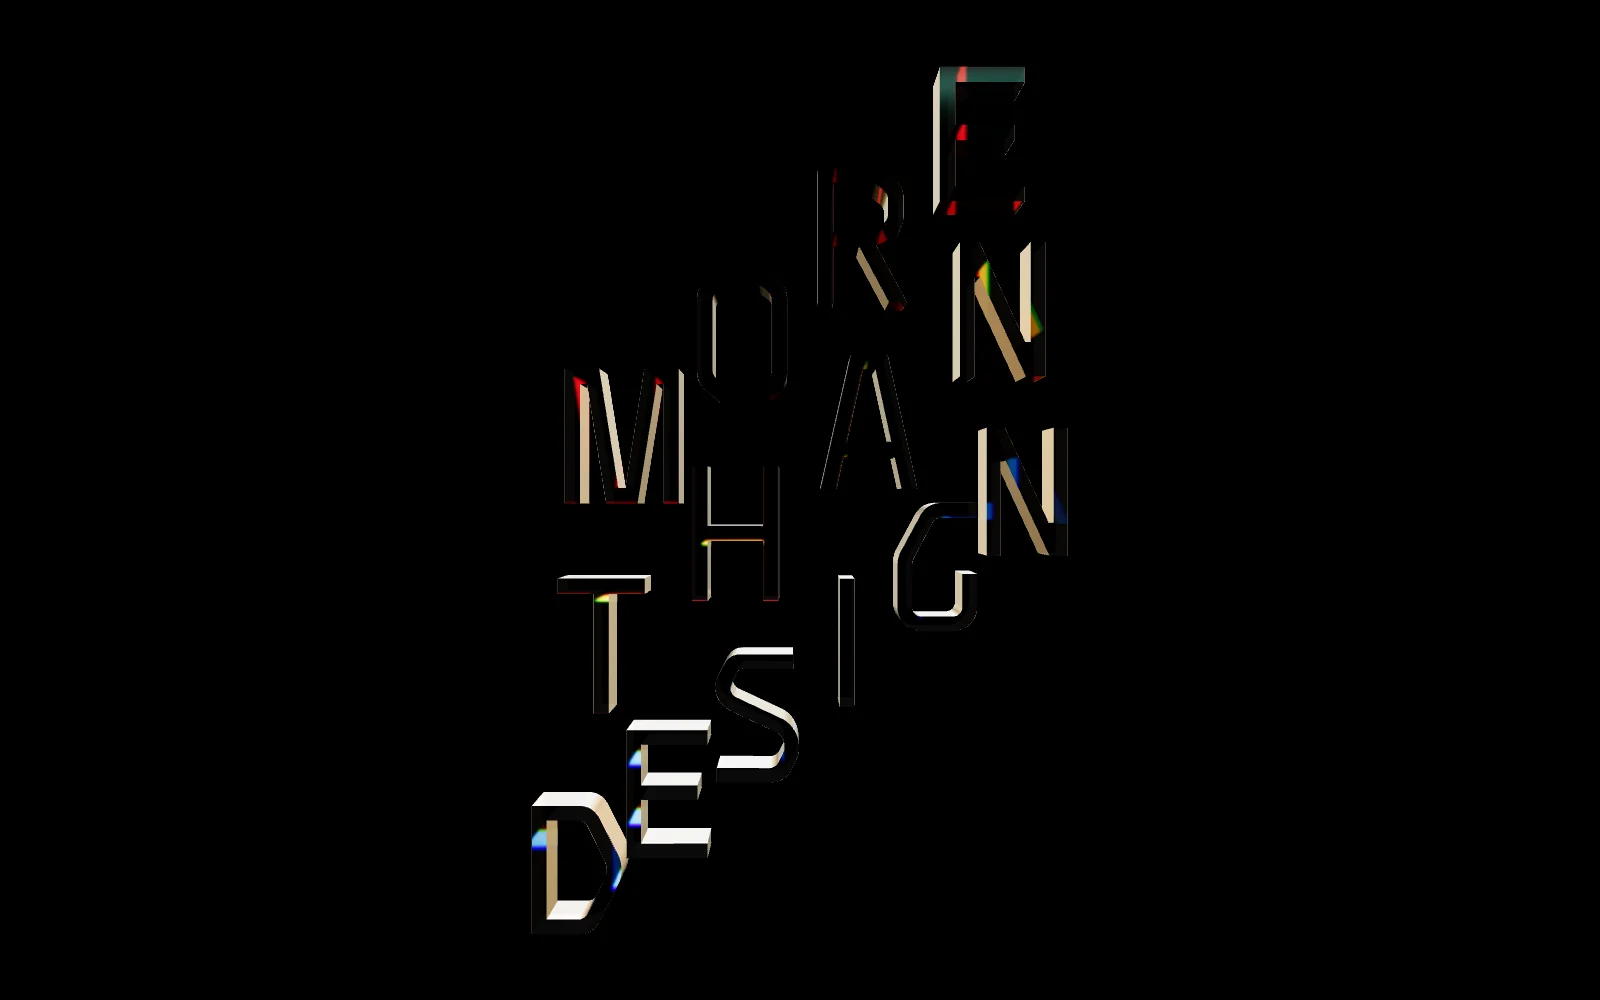
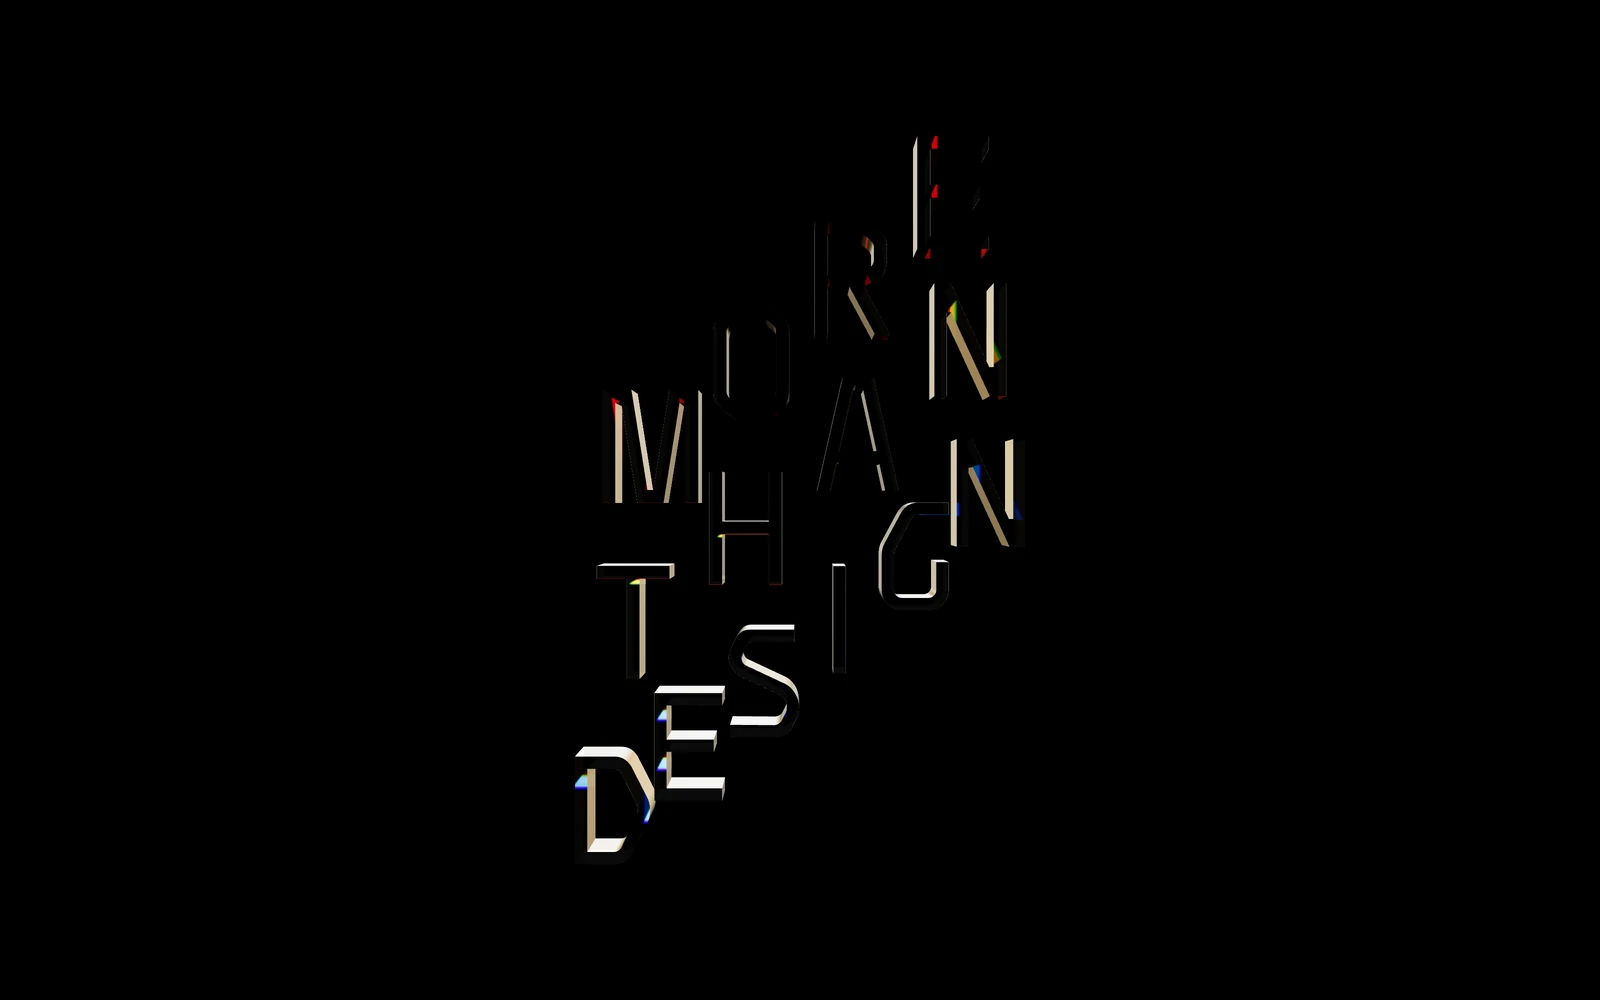
Hero: seamless fallback→scene handoff (no crossfade snap)
The static still (hero-fallback.webp) no longer matches the scene's opening
frame, so the homepage crossfade visibly jumped scale. Fix:
- Regenerate the still from the scene's actual opening frame via a new
  /scene/?still capture mode (freezes the opening frame: no dolly/burst/orbit).
- Fallback now uses object-fit:contain (mirrors fitCameraToScene) instead of
  cover, which cropped + enlarged the still on wide viewports; black backdrop
  hides the letterbox. Cache-bust to ?v=2.
- Hold the opening frame ~1s so the still finishes fading before the dolly,
  then retime the dolly (5s) to land at the 6s burst.

diff --git a/scene/index.html b/scene/index.html
@@ -2052,11 +2052,18 @@ function applyPhysSliders(P) {
 // Start live physics (with a burst) if a restored scene requested it. Deferred until
 // after the camera is framed so the walls fit the right bounds.
 function maybeStartPhysics() {
+  if (STILL) { _pendingPhysics = false; return; }   // capture mode: never burst — hold the opening frame
   if (_pendingPhysics && !physEnabled && !frozen) {
     // Live hero: always contain shapes inside the canvas so nothing flies off-screen.
     if (!document.documentElement.classList.contains('edit') && $('physWalls')) $('physWalls').value = 'canvas';
     // Hold the composed words while the homepage slash grows (~5s), then burst.
-    setTimeout(() => { if (!physEnabled && !frozen) physBurst(); }, 6000);
+    setTimeout(() => {
+      if (!physEnabled && !frozen) physBurst();
+      // Flag the orbit as ready once the burst has settled; heroSpin eases it in.
+      if (HERO_MOTION && !document.documentElement.classList.contains('edit')) {
+        setTimeout(() => { heroOrbitReady = true; }, HERO_SETTLE_MS);
+      }
+    }, 6000);
   }
   _pendingPhysics = false;
 }
@@ -2660,6 +2667,10 @@ document.addEventListener('change', autosave, true);
 
 // ===== HERO boot: full-viewport, auto-fit. ?edit also enables zoom/pan. =====
 const EDIT = document.documentElement.classList.contains('edit');
+// ?still: freeze the live hero on its opening frame (no dolly, no burst, no orbit) so a
+// headless screenshot can be captured for images/hero-fallback.webp — keeping the static
+// still pixel-aligned with the scene's first rendered frame (no crossfade snap).
+const STILL = !EDIT && new URLSearchParams(location.search).has('still');
 // Embedded in the homepage hero: hide the scene's grab cursor and forward pointer
 // moves so the site's custom "+" cursor tracks over the hero.
 if (window.parent && window.parent !== window) {
@@ -2674,6 +2685,21 @@ controls.autoRotate = true;        // published hero gently rotates;
 controls.autoRotateSpeed = 0.6;    // a saved "Auto Rotate" value overrides this on load.
 controls.enableZoom = EDIT;        // live hero is drag-to-rotate only (don't trap page scroll)
 controls.enablePan = EDIT;
+
+// ── Hero auto-orbit: a subtle horizontal drift that begins once the burst settles ──
+const HERO_MOTION = !window.matchMedia('(prefers-reduced-motion: reduce)').matches;
+const HERO_AUTOROTATE_SPEED = 0.5;    // horizontal orbit speed (eased in, never snapped on)
+const HERO_SETTLE_MS = 3500;          // wait after the 6s burst before orbiting
+const HERO_FRAME_MARGIN = 0.6;        // close framing (<1 pulls the camera in so letters loom)
+const HERO_START_MARGIN = 1.4;        // opening framing — whole composition (small)
+const HERO_HOLD_SEC = 1.0;            // hold the opening frame still while the fallback crossfades out
+const HERO_DOLLY_SEC = 5.0;           // then slowly enlarge from start→close, finishing ~at the 6s burst
+let heroMargin = HERO_START_MARGIN;   // animated framing margin for the live hero
+let heroDollyT0 = null;               // clock time the zoom-in begins (set once the scene is framed)
+let heroDollyDone = false;            // true once the zoom-in has finished (or was interrupted)
+let heroOrbitReady = false;           // true once the burst has settled
+let heroDragging   = false;           // true while the viewer is dragging
+let heroSpin = 0;                     // current eased auto-rotate speed (ramps 0 ↔ target)
 
 // Frame the whole composition so it fills the viewport (composition-agnostic,
 // so it keeps working when a different scene is published).
@@ -2703,7 +2729,7 @@ function heroResize(){
   camera.aspect = w / h;
   camera.updateProjectionMatrix();
   if (typeof refreshAllLineResolutions === 'function') refreshAllLineResolutions();
-  fitCameraToScene();
+  fitCameraToScene(EDIT ? 1.18 : heroMargin);   // live hero uses the animated dolly margin; editor sees the whole scene
   if (physEnabled && typeof buildWalls === 'function') buildWalls();   // keep walls fit to the viewport
 }
 window.addEventListener('resize', heroResize);
@@ -2731,7 +2757,25 @@ async function bootScene() {
   const state = await loadPublishedState();
   if (state) restoreState(state); else defaultScene();
   if (EDIT) { if (!state) fitCameraToScene(); }   // frame default for composing; keep saved camera otherwise
-  else { heroResize(); }                          // live hero: always full-bleed + auto-fit
+  else {
+    heroResize();                                 // live hero: frames wide (readable composition)
+    controls.autoRotate = false;
+    controls.autoRotateSpeed = 0;                 // eased in later via heroSpin (no mechanical start)
+    if (STILL) {
+      heroDollyDone = true;                        // capture mode: hold the exact opening frame, forever
+    } else if (HERO_MOTION) {
+      // Hold the opening frame still long enough for the homepage's fallback still to finish
+      // crossfading out (so the cut is seamless), THEN begin the slow zoom-in.
+      heroDollyT0 = clock.elapsedTime + HERO_HOLD_SEC;
+      // Dragging takes over: it interrupts the intro zoom; the orbit eases back after release.
+      controls.addEventListener('start', () => { heroDragging = true; heroDollyDone = true; });
+      controls.addEventListener('end',   () => { heroDragging = false; });
+      // Safety net: if no burst is scheduled (a physics-off statement), still begin eventually.
+      setTimeout(() => { heroOrbitReady = true; }, 11000);
+    } else {
+      heroDollyDone = true;                        // reduced motion: stay at the readable wide framing
+    }
+  }
   maybeStartPhysics();                            // live burst, now that camera + walls are framed
   // Tell the homepage the scene rendered, so it can drop the fallback still.
   if (!EDIT) requestAnimationFrame(() => {
@@ -2849,6 +2893,25 @@ function animate() {
   requestAnimationFrame(animate);
   const dt = clock.getDelta();
   const t = clock.elapsedTime;
+
+  // Live hero opening: hold the readable composition, then slowly move it toward
+  // the viewer (dolly in from a wide framing to the close one), finishing just as
+  // the burst fires. Interrupted if the viewer grabs the scene.
+  if (HERO_MOTION && !EDIT && heroDollyT0 != null && t >= heroDollyT0 && !heroDollyDone && !heroDragging) {
+    const k = Math.min(1, (t - heroDollyT0) / HERO_DOLLY_SEC);
+    const e = k * k * (3 - 2 * k);                                   // smoothstep
+    heroMargin = HERO_START_MARGIN + (HERO_FRAME_MARGIN - HERO_START_MARGIN) * e;
+    fitCameraToScene(heroMargin);
+    if (k >= 1) heroDollyDone = true;
+  }
+  // Ease the horizontal auto-orbit up to speed (and back down while dragging), so
+  // it never snaps on or off.
+  if (HERO_MOTION && !EDIT) {
+    const wantSpin = (heroOrbitReady && !heroDragging) ? HERO_AUTOROTATE_SPEED : 0;
+    heroSpin = THREE.MathUtils.damp(heroSpin, wantSpin, 2.2, dt);
+    controls.autoRotate = heroSpin > 0.002;
+    if (controls.autoRotate) controls.autoRotateSpeed = heroSpin;
+  }
 
   if (physEnabled) {
     applyVortexForces(Math.min(dt, 1/30));

diff --git a/index.html b/index.html
@@ -42,7 +42,7 @@
       width: 100%;
       height: 100vh;
       overflow: hidden;
-      background: #ffffff;
+      background: #000;
     }
     #hero-canvas iframe {
       position: absolute;
@@ -59,8 +59,13 @@
       inset: 0;
       width: 100%;
       height: 100%;
-      object-fit: cover;
+      /* contain (not cover): the live scene frames the whole composition with margin
+         via fitCameraToScene, so the still must fit-inside too — otherwise wide viewports
+         crop the still and the composition jumps scale at the crossfade. Black backdrop
+         makes the letterbox invisible against the scene. */
+      object-fit: contain;
       object-position: center;
+      background: #000;
       z-index: 1;
       pointer-events: none;
       opacity: 1;
@@ -168,7 +173,7 @@
 
   <section id="hero-canvas">
     <iframe src="/scene/" title="OP/AL" loading="eager" scrolling="no"></iframe>
-    <img id="hero-fallback" src="images/hero-fallback.webp" alt="" aria-hidden="true">
+    <img id="hero-fallback" src="images/hero-fallback.webp?v=2" alt="" aria-hidden="true">
     <div id="hero-touch" aria-hidden="true"></div>
     <div id="hero-slash" aria-hidden="true"></div>
     <p id="hero-tagline" aria-live="polite">
